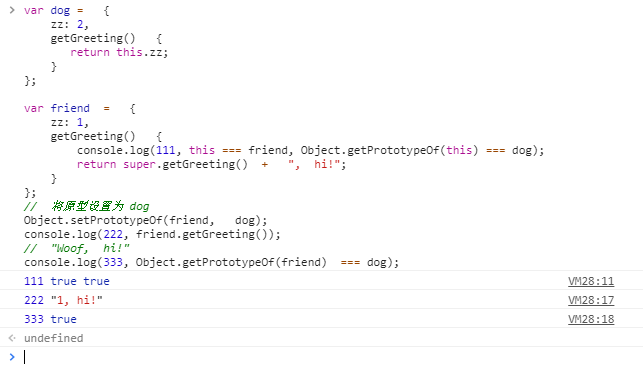
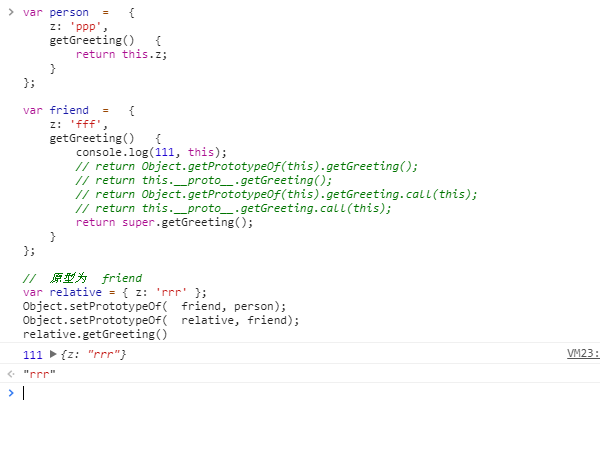
super

diff --git a/md/super.md b/md/super.md
@@ -3,6 +3,8 @@
 
 ![super_1](../png/super/super_1.png)
 
-![super_2](../png/super/super_2.png)
+![super_2.1](../png/super/super_2.1.png)
+
+![super_2.2](../png/super/super_2.2.png)
 
 ![super_3](../png/super/super_3.png)
